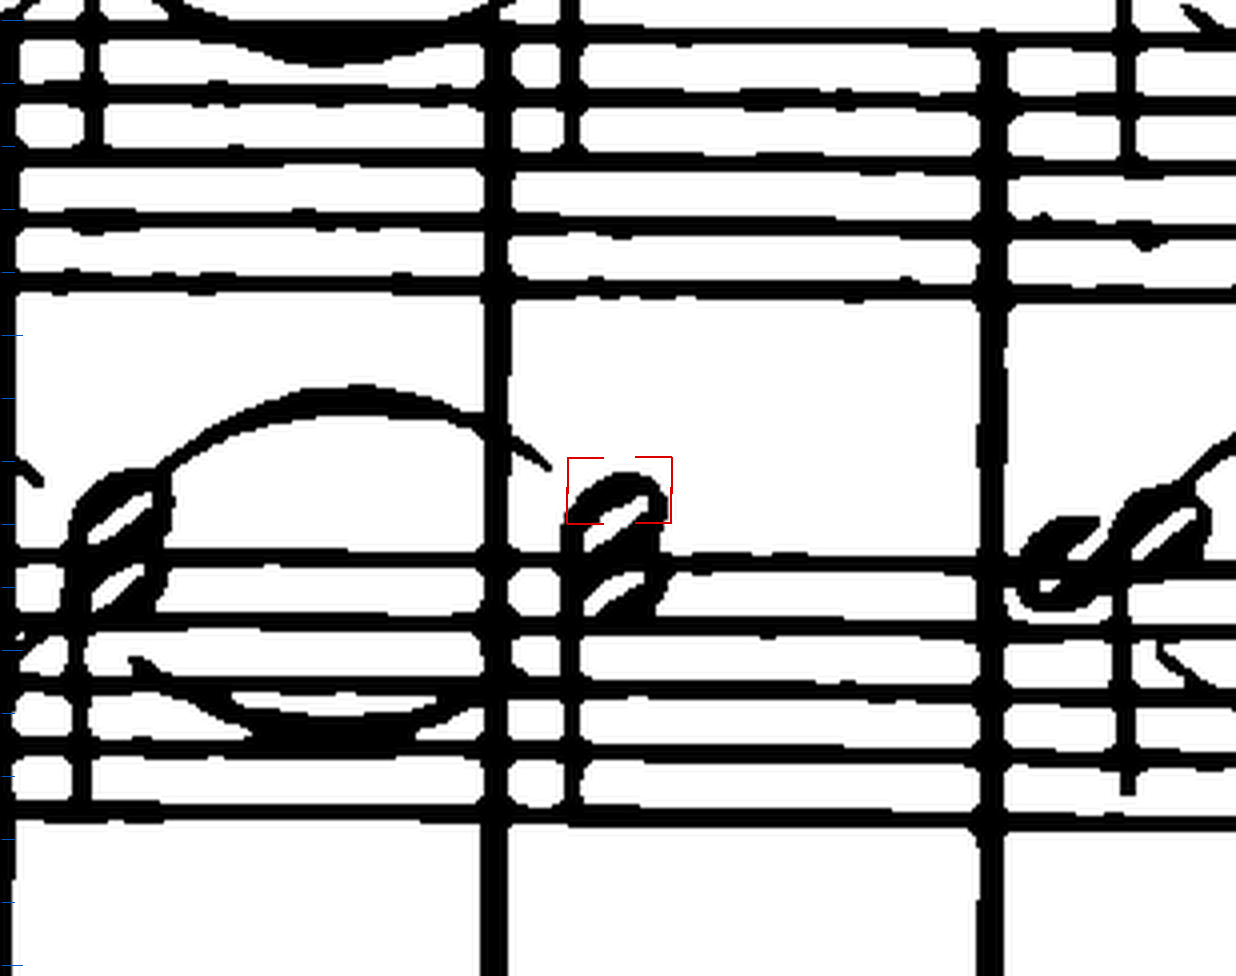
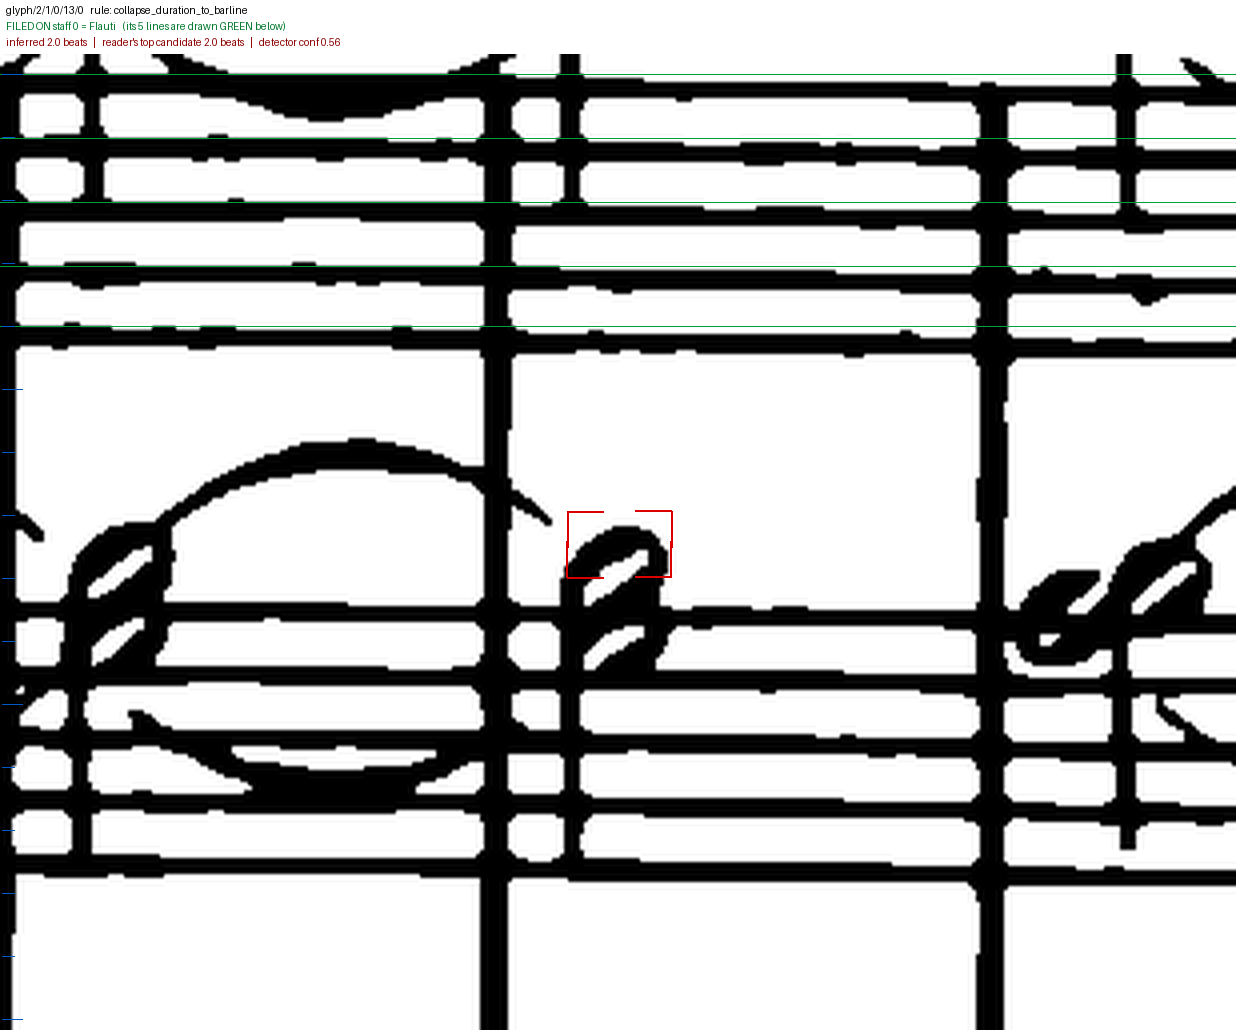
2.3: Sean's adjudication — both subjects are MISATTRIBUTED, and the finding moves off durations
He found the CROP defective before the durations, and he was right:

  "there is a staff at the top and a staff at the bottom - i dont know which
   staff the cell is focussing on."

A window centred on a note in the GAP between two staves shows both and commits
to neither, so it cannot distinguish a correct attribution from a cross-staff
error -- which is what both subjects turned out to be. `crop_inferred.py` now
names the staff the record FILED the subject on and traces that staff's own
five Q.STAFF_LINES across the crop in green. All 10 crops re-cut.

His reading and the recorded geometry agree on both, and both are MISATTRIBUTED:

  glyph/4/0/9/5/7  filed staff 9 Violoncello; sits 1 space above staff 10
                   Basso's top line -- its first ledger line
  glyph/2/0/9/15/5 filed staff 9 Viola; sits 1.3 spaces below staff 8
                   Violino II's bottom line -- its first ledger line

⚠ THIS REVERSES §5b's VERDICT ON glyph/4/0/9/5/7. That row was scored against
Violoncello m88 ([1.0, 1.0]) and called "both wrong" -- the wrong part. Against
BASSO m88, which is where the note belongs: reference [0.5, 0.5, 0.5], eighths.
Sean reads an eighth off the print. So the READER'S TOP CANDIDATE (0.5) IS
CORRECT and the rule's 0.25 IS WRONG, with the print and the encoding agreeing
against the rule.

⚠ THE FINDING HAS MOVED OFF DURATIONS. Both of the rules' discriminating
subjects are `glyph_owner` failures across a staff boundary -- a first-ledger-
[…]

diff --git a/benchmarks/omr-infer-duration-print-2026-09/probe/crop_inferred.py b/benchmarks/omr-infer-duration-print-2026-09/probe/crop_inferred.py
@@ -16,6 +16,15 @@ REFUSED, not cropped with a caveat.
 margin tick at its x (CLAUDE.md 6b). A ruler of staff spaces is drawn beside
 it so the reader can measure rather than judge.
 
+⚠⚠ THE CROP NAMES THE STAFF THE RECORD FILED THE SUBJECT ON, AND DRAWS THAT
+STAFF'S OWN FIVE LINES. Sean, 2026-09-23, on the first version of these crops:
+*"there is a staff at the top and a staff at the bottom - i dont know which
+staff the cell is focussing on."* He was right and the crop was the defect: a
+window centred on a note in the gap between two staves shows both and commits
+to neither, so the reader cannot tell a correct attribution from a cross-staff
+error -- which is precisely what both of the marked subjects turned out to be.
+A crop that does not say what it is about is not evidence.
+
 ⚠ WHAT THE CROP CAN AND CANNOT SETTLE. It shows the printed note and its
 flag/beam, which is what a duration IS. It does NOT show whether the rule's
 WITNESSES were right -- that is a different question and needs their crops
@@ -80,11 +89,25 @@ def main() -> int:
     ap.add_argument("--out-dir", default="out/print")
     ap.add_argument("--pad-spaces", type=float, default=9.0,
                     help="crop half-width in STAFF SPACES around the subject")
+    ap.add_argument("--works", default="benchmarks/omr-scan-e2e-2026-09/works.json",
+                    help="hand-verified rows, for the staff's printed NAME")
     a = ap.parse_args()
 
     import fitz
     import numpy as np
     from PIL import Image, ImageDraw
+
+    def staff_name(page, system, staff):
+        """The printed staff name from the hand-verified row, or None."""
+        try:
+            rows = json.loads(Path(a.works).read_text())["rows"]
+            row = next(r for r in rows
+                       if r["row_id"] == f"beethoven-sym5-mvt1-984073-p{page}")
+        except Exception:
+            return None
+        sap = row.get("systems_as_printed") or {}
+        block = sap.get(f"system_{system + 1}") or row.get("staves") or []
+        return block[staff]["name"] if staff < len(block) else None
 
     d = load_record(a.arm)
     rec, inf = d["record"], d["inference"]
@@ -154,6 +177,15 @@ def main() -> int:
             dr.line([(ax, ay), (ax + dx * arm_len, ay)], fill=R, width=W)
             dr.line([(ax, ay), (ax, ay + dy * arm_len)], fill=R, width=W)
 
+        # ⚠ THE OWNING STAFF, DRAWN. Its five recorded `Q.STAFF_LINES` are
+        # traced across the crop in green, so "the record says the subject
+        # belongs to THIS staff" is visible rather than inferred from which
+        # half of the picture the note sits in.
+        for ly in lines:
+            y = (ly - cy0) * Z
+            if 0 <= y < crop.height:
+                dr.line([(0, y), (crop.width, y)], fill=(0, 160, 60), width=1)
+
         # a ruler: one tick per staff space down the left edge
         step = float(spacing) * Z
         y = (lines[0] - cy0) * Z
@@ -166,6 +198,28 @@ def main() -> int:
 
         v = vby[vid]
         prior = vby.get(v.get("supersedes"))
+        top = None
+        if prior and prior.get("candidates"):
+            best = max(prior["candidates"], key=lambda c: c.get("support", 0))
+            top = (best.get("value") or {}).get("beats")
+        sname = staff_name(p, sy, st)
+
+        # a caption band, so the crop travels with what it is about
+        band_h = 54
+        out_im = Image.new("RGB", (crop.width, crop.height + band_h), "white")
+        out_im.paste(crop, (0, band_h))
+        cd = ImageDraw.Draw(out_im)
+        cd.text((6, 4), f"{subj}   rule: {rule}", fill=(0, 0, 0))
+        cd.text((6, 20), f"FILED ON staff {st}"
+                         + (f" = {sname}" if sname else "")
+                         + "   (its 5 lines are drawn GREEN below)",
+                fill=(0, 120, 45))
+        cd.text((6, 36), f"inferred {(v.get('value') or {}).get('beats')} beats"
+                         f"   |   reader's top candidate {top} beats"
+                         f"   |   detector conf "
+                         f"{idx.get(('glyph_conf', subj)):.2f}", fill=(140, 0, 0))
+        crop = out_im
+
         name = f"{a.label}-p{p}-s{sy}-st{st}-c{ce}-g{gi}-{rule.split('_')[-1]}.png"
         crop.save(out_dir / name)
         manifest.append({

diff --git a/benchmarks/omr-infer-duration-print-2026-09/FINDINGS.md b/benchmarks/omr-infer-duration-print-2026-09/FINDINGS.md
@@ -238,3 +238,69 @@ instrument that can actually settle this.
   duration matches; it does not show whether the neighbours the rule borrowed
   from were read correctly. Both rules are only as good as those witnesses.
 - **n = 1 document, 16 inferences, 10 crops.**
+
+---
+
+# §7. Sean's adjudication, 2026-09-23 — and it moves the finding off durations
+
+**He read the crops and found the crop defective first**, which is the more
+useful half:
+
+> *"in the 2 cells you sent me there is a staff at the top and a staff at the
+> bottom - i dont know which staff the cell is focussing on. the first cell has
+> an 8th note on a ledger line above the staff on the bottom of the cell. the
+> 2nd cell has an 8th note on a ledger line below the staff in the top of the
+> cell"*
+
+A window centred on a note in the GAP between two staves shows both and commits
+to neither. The crop could not distinguish a correct attribution from a
+cross-staff error — which is exactly what both subjects turned out to be.
+`probe/crop_inferred.py` now names the staff the record filed the subject on and
+traces that staff's own five `Q.STAFF_LINES` across the crop in green.
+
+## The geometry agrees with him on both, and both are MISATTRIBUTED
+
+| subject | filed on | glyph page-y | the staff it actually sits on |
+|---|---|---|---|
+| `glyph/4/0/9/5/7` | staff 9 = **Violoncello** | 1865.6–1878.0 | **staff 10 = Basso**, lines 1894–1957 — the note is 1 space above its top line, i.e. its first ledger line |
+| `glyph/2/0/9/15/5` | staff 9 = **Viola** | 1670.0–1677.5 | **staff 8 = Violino II**, lines 1585–1649 — 1.3 spaces below its bottom line, its first ledger line |
+
+## ⚠ THIS REVERSES §5b's VERDICT ON `glyph/4/0/9/5/7`
+
+§5b scored it against **Violoncello** m88 — `[1.0, 1.0]` — and called inferred
+and reader's-top both absent, "both wrong". That comparison was against the
+wrong part. Against **Basso** m88, the part the note actually belongs to:
+
+| | |
+|---|---|
+| reference (Basso, m88) | `[0.5, 0.5, 0.5]` — **eighths** |
+| Sean, off the print | **an eighth** = 0.5 |
+| reader's top candidate | **0.5 — CORRECT** |
+| the rule's inference | **0.25 — WRONG** |
+
+Two independent sources — the print and the encoding of the correct part —
+agree, and they agree against the rule. **The reader had it right and
+`collapse_duration_to_barline` overrode it with a worse answer.**
+
+## What this pass now says
+
+The two ordering-overrides were chosen as the cases that decide whether the
+stage buys anything, because they are the only ones where the rule contradicts
+the reader. On this document:
+
+* one (`glyph/2/0/9/15/5`) is ink **2.4a refuses as not a notehead**, and is
+  **filed on the wrong staff**;
+* the other (`glyph/4/0/9/5/7`) is **filed on the wrong staff** and the rule's
+  override is **wrong against both the print and the encoding**.
+
+⚠ **THE FINDING HAS MOVED OFF DURATIONS.** Both discriminating subjects are
+`glyph_owner` failures across a staff boundary — a ledger-line note in the gap,
+given to the neighbour. The duration inference is DOWNSTREAM of that, and a
+duration rule cannot be fairly judged on ink the owner decision has already
+misplaced. Roadmap 2.3's default decision should not be taken on these two; the
+prior question is why a first-ledger-line note in the gap goes to the wrong
+staff, which is `glyph_owner`'s contest (CLAUDE.md §10: ladder completeness,
+then range, then distance) and is not this lane's.
+
+⚠ Still n = 2 subjects. What it establishes is that the two cases that were
+supposed to settle 2.3 cannot settle it, and why.
